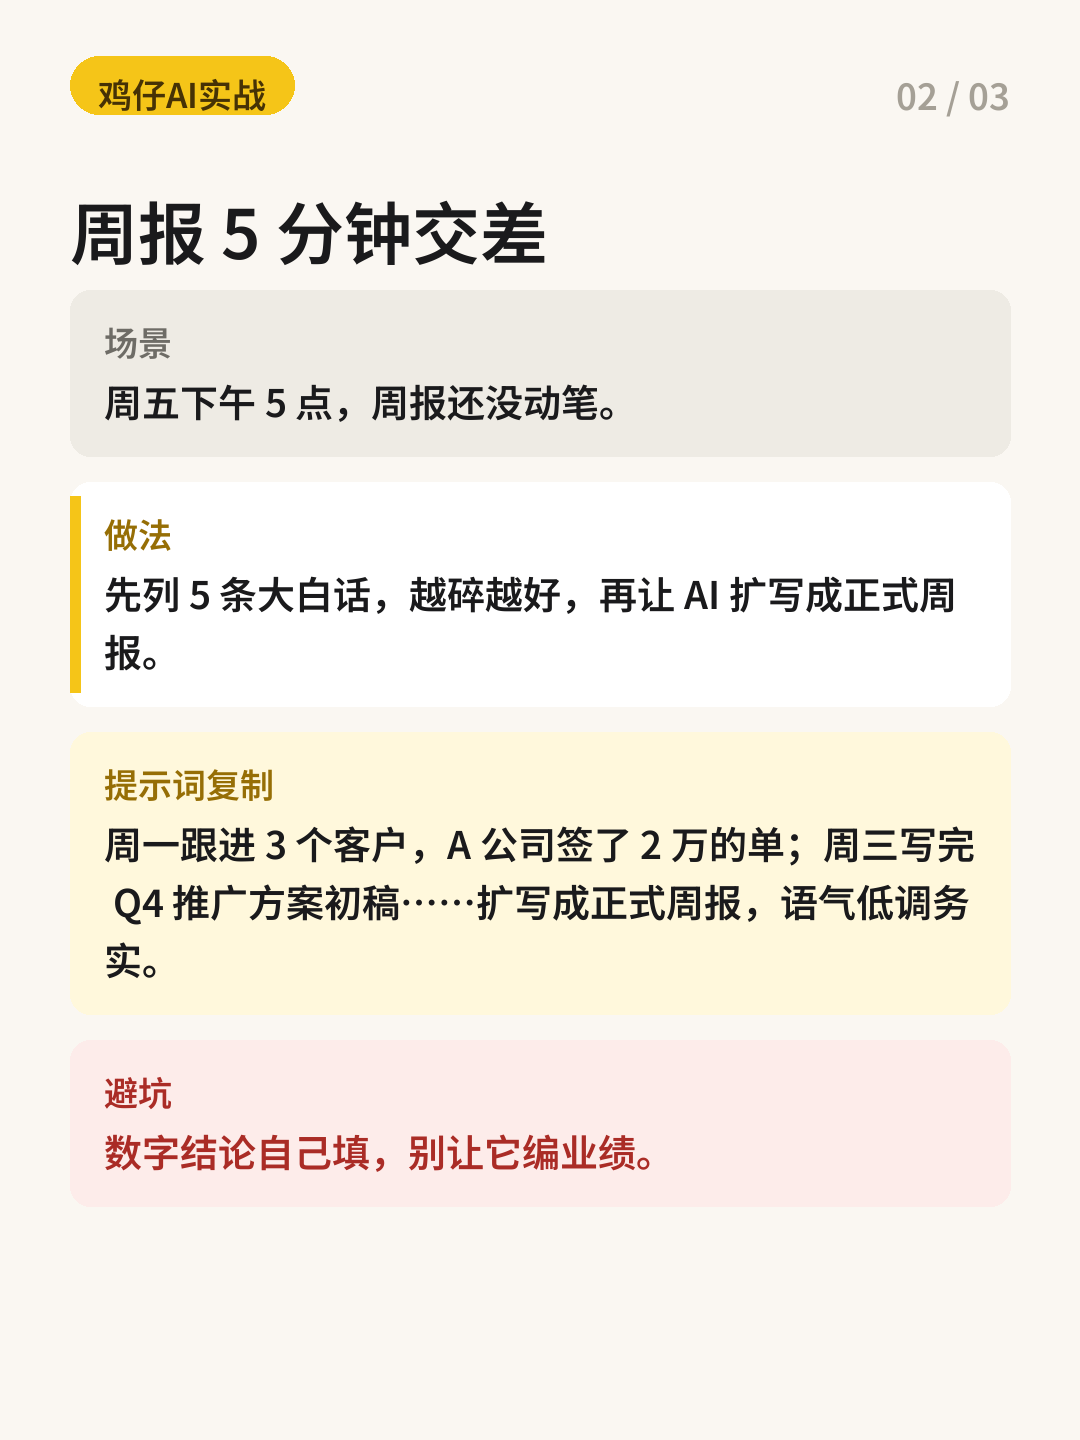
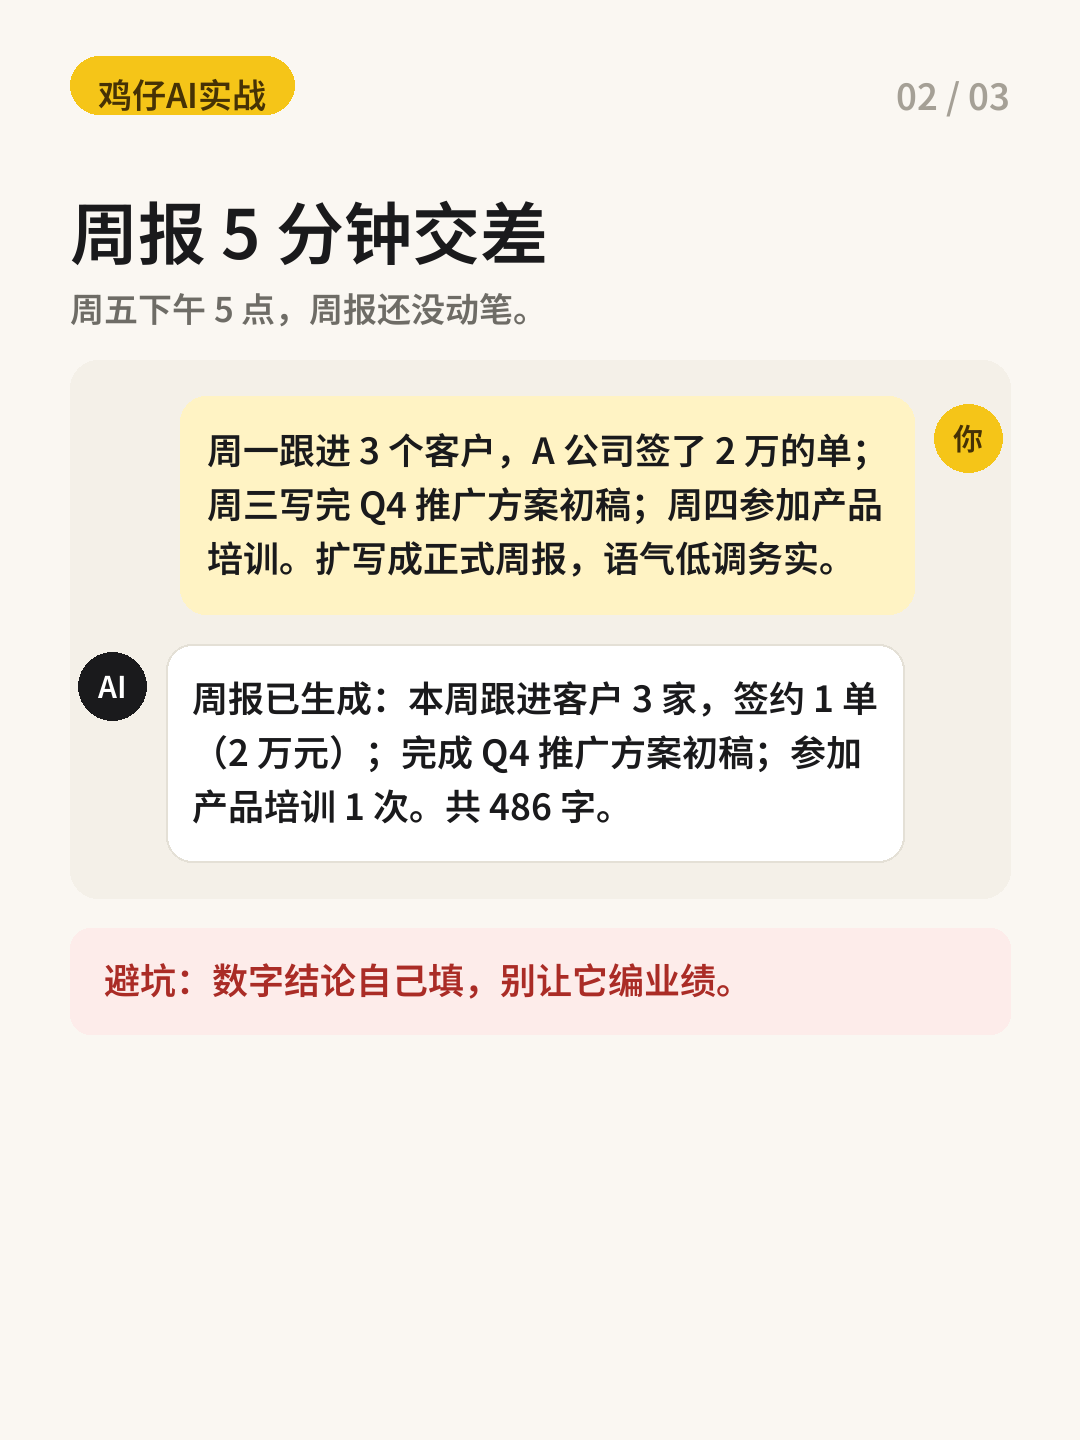
教程卡片 v2：对话实录风（你发什么/AI回什么）

Changed region(s): [[0.0611, 0.1875, 0.9472, 0.7188], [0.0917, 0.75, 0.6111, 0.8125]]

diff --git a/scripts/generate_xhs_tutorial_cards.py b/scripts/generate_xhs_tutorial_cards.py
@@ -1,8 +1,9 @@
 #!/usr/bin/env python3
-"""小红书教程类卡片生成器：浅色实战风，与深色 AI 早报模板彻底区分。
+"""小红书教程类卡片生成器 v2：对话实录风。
 
-设计语言：暖纸白底 + 黑色大标题 + 黄色品牌点缀。
-结构：场景(灰盒) → 做法(白卡) → 提示词(可复制黄条) → 避坑(浅红盒)。
+设计语言：暖纸白底 + 聊天界面 mockup。
+每张卡讲一个 mini 故事：你发出什么 → AI 回复什么 → 避坑一句。
+与深色 AI 早报模板彻底区分。
 """
 import sys
 import os
@@ -18,15 +19,13 @@ DIM = (165, 160, 150)
 YELLOW = (245, 197, 24)
 YELLOW_D = (150, 110, 5)
 WHITE = (255, 255, 255)
-SCENE_BG = (238, 235, 228)
+BROWN = (70, 50, 5)
+USER_BUBBLE = (255, 243, 196)
+AI_BUBBLE = (255, 255, 255)
+AI_BORDER = (228, 224, 214)
 WARN_BG = (253, 236, 234)
 WARN_INK = (170, 44, 38)
-PROMPT_BG = (255, 248, 220)
-BROWN = (70, 50, 5)
-
-
-def _bg():
-    return Image.new('RGB', (W, H), BG), None
+PANEL = (244, 240, 232)
 
 
 def _new():
@@ -49,24 +48,37 @@ def _header(d, idx, total):
     d.text((W - 70 - tw, 68), t, font=f, fill=DIM)
 
 
-def _footer(d):
-    pass  # 2026-10-03 用户要求去掉底部品牌行，顶部徽章已足够
+def _avatar(d, cx, cy, r, text, fill, ink):
+    d.ellipse([cx - r, cy - r, cx + r, cy + r], fill=fill)
+    f = _font(30)
+    tw = d.textlength(text, font=f)
+    d.text((cx - tw / 2, cy - 23), text, font=f, fill=ink)
 
 
-def _box(d, y, label, text, bg, ink, label_color, left_bar=None):
-    """圆角内容盒，返回底部 y。"""
-    f_lab, f_txt = _font(34), _font(38)
-    lines = _wrap(d, _clean(text), f_txt, W - 140 - 64)
-    box_h = 30 + 52 + len(lines) * 58 + 26
-    d.rounded_rectangle([70, y, W - 70, y + box_h], radius=20, fill=bg)
-    if left_bar:
-        d.rectangle([70, y + 14, 80, y + box_h - 14], fill=left_bar)
-    d.text((104, y + 26), label, font=f_lab, fill=label_color)
-    ty = y + 26 + 56
+def _measure(d, max_w, text):
+    """纯测量，不绘制。返回 (气泡宽, 气泡高, 行列表)。"""
+    f = _font(36)
+    lines = _wrap(d, _clean(text), f, max_w - 52)
+    lw = max(d.textlength(ln, font=f) for ln in lines) if lines else 0
+    bw = min(max_w, lw + 52)
+    bh = 30 + len(lines) * 54 + 26
+    return bw, bh, lines
+
+
+def _bubble(d, x, y, max_w, text, fill, ink, border=None):
+    """画一个聊天气泡，返回实际高度。"""
+    f = _font(36)
+    bw, bh, lines = _measure(d, max_w, text)
+    if border:
+        d.rounded_rectangle([x, y, x + bw, y + bh], radius=26,
+                            fill=fill, outline=border, width=2)
+    else:
+        d.rounded_rectangle([x, y, x + bw, y + bh], radius=26, fill=fill)
+    ty = y + 26
     for ln in lines:
-        d.text((104, ty), ln, font=f_txt, fill=ink)
-        ty += 58
-    return y + box_h + 26
+        d.text((x + 26, ty), ln, font=f, fill=ink)
+        ty += 54
+    return bw, bh
 
 
 def draw_cover_tutorial(kicker, title_lines, tips, path):
@@ -79,7 +91,7 @@ def draw_cover_tutorial(kicker, title_lines, tips, path):
     f_big = _font(100)
     for ln in title_lines:
         d.text((66, y), ln, font=f_big, fill=INK)
-        y += 148
+        y += 128
     y += 60
     d.rectangle([72, y, 200, y + 10], fill=YELLOW)
     y += 70
@@ -94,11 +106,11 @@ def draw_cover_tutorial(kicker, title_lines, tips, path):
             d.text((172, y), ln, font=f_t, fill=INK)
             y += 62
         y += 48
-    _footer(d)
     img.save(path)
 
 
 def draw_tip_card(tip, idx, total, path):
+    """tip: {title, scene, user, ai, warn}"""
     img, d = _new()
     _header(d, idx, total)
     y = 180
@@ -106,13 +118,43 @@ def draw_tip_card(tip, idx, total, path):
     for ln in _wrap(d, _clean(tip['title']), f_title, W - 140)[:2]:
         d.text((70, y), ln, font=f_title, fill=INK)
         y += 92
-    y += 18
-    y = _box(d, y, '场景', tip['scene'], SCENE_BG, INK, GRAY)
-    y = _box(d, y, '做法', tip['how'], WHITE, INK, YELLOW_D, left_bar=YELLOW)
-    if tip.get('prompt'):
-        y = _box(d, y, '提示词复制', tip['prompt'], PROMPT_BG, INK, YELLOW_D)
-    y = _box(d, y, '避坑', tip['warn'], WARN_BG, WARN_INK, WARN_INK)
-    _footer(d)
+    y += 10
+    # 场景（小灰字）
+    f_scene = _font(34)
+    for ln in _wrap(d, _clean(tip['scene']), f_scene, W - 140)[:2]:
+        d.text((70, y), ln, font=f_scene, fill=GRAY)
+        y += 52
+    y += 26
+    # 聊天面板：先预量高度，画面板，再画内容
+    px0, px1 = 70, W - 70
+    max_w = px1 - px0 - 190
+    panel_top = y
+    # 预量两行高度
+    _, uh, _ = _measure(d, max_w, tip['user'])
+    _, ah, _ = _measure(d, max_w, tip['ai'])
+    panel_h = 36 + uh + 30 + ah + 36
+    d.rounded_rectangle([px0, panel_top, px1, panel_top + panel_h],
+                        radius=28, fill=PANEL)
+    y = panel_top + 36
+    bw, _, _ = _measure(d, max_w, tip['user'])
+    bx = px1 - bw - 96
+    _bubble(d, bx, y, max_w, tip['user'], USER_BUBBLE, INK)
+    _avatar(d, px1 - 42, y + 42, 34, '你', YELLOW, BROWN)
+    y += uh + 30
+    _avatar(d, px0 + 42, y + 42, 34, 'AI', INK, WHITE)
+    _bubble(d, px0 + 96, y, max_w, tip['ai'], AI_BUBBLE, INK, border=AI_BORDER)
+    y = panel_top + panel_h + 30
+    # 避坑条
+    f_w = _font(36)
+    wt = '避坑：' + tip['warn']
+    wl = _wrap(d, _clean(wt), f_w, W - 140 - 52)
+    wh = 28 + len(wl) * 54 + 24
+    d.rounded_rectangle([70, y, W - 70, y + wh], radius=20, fill=WARN_BG)
+    ty = y + 24
+    for i, ln in enumerate(wl):
+        d.text((104, ty), ln, font=f_w,
+               fill=WARN_INK if i == 0 else INK)
+        ty += 54
     img.save(path)
 
 
@@ -138,36 +180,35 @@ def draw_end_tutorial(jinju, question, path):
     d.rounded_rectangle([(W - tw) / 2 - 30, y, (W + tw) / 2 + 30, y + 84],
                         radius=42, fill=YELLOW)
     d.text(((W - tw) / 2, y + 20), t, font=f_fav, fill=BROWN)
-    _footer(d)
     img.save(path)
 
 
+TIPS = [
+    {"title": "把 Excel 丢给 AI 洗",
+     "scene": "电商运营，每月初导 3000 行订单明细，老板要各品类销售额+退货率汇总。",
+     "user": "这是9月订单明细，A列下单日期、B列商品类目、C列金额、D列是否退货，按类目汇总销售额和退货率，输出一张表。",
+     "ai": "搞定！3 个类目已汇总：数码 ¥68,200｜服装 ¥41,300（退货率 8.2% 最高）｜家居 ¥18,900。需要导出 Excel 吗？",
+     "warn": "关键数字自己抽查两行，公式它偶尔手滑。"},
+    {"title": "周报 5 分钟交差",
+     "scene": "周五下午 5 点，周报还没动笔。",
+     "user": "周一跟进 3 个客户，A 公司签了 2 万的单；周三写完 Q4 推广方案初稿；周四参加产品培训。扩写成正式周报，语气低调务实。",
+     "ai": "周报已生成：本周跟进客户 3 家，签约 1 单（2 万元）；完成 Q4 推广方案初稿；参加产品培训 1 次。共 486 字。",
+     "warn": "数字结论自己填，别让它编业绩。"},
+    {"title": "汇报 PPT 10 分钟出大纲",
+     "scene": "下周给总监汇报 Q4 推广方案，只有 15 分钟。",
+     "user": "听众是总监，关心投入产出；讲 15 分钟；想让他记住：Q4 主攻短视频，预算 20 万，目标 200 万 GMV。",
+     "ai": "大纲已生成：1. 现状：短视频 ROI 是图文 3 倍 2. 打法：Q4 主攻短视频 3. 预算 20 万 4. 目标 200 万 GMV。要展开第 2 部分吗？",
+     "warn": "大纲是骨架，血肉必须是你的真实业务。"},
+]
+
+
 if __name__ == '__main__':
-    import json
     d = 'data/xhs-drafts/2026-10-04'
-    draft = json.load(open(f'{d}/draft.json', encoding='utf-8'))
-    tips = [
-        {"title": "把 Excel 丢给 AI 洗",
-         "scene": "电商运营，每月初从后台导 3000 行订单明细，老板要各品类销售额+退货率汇总表。以前拉透视表，1 小时起步。",
-         "how": "把数据复制进对话框，第一句说清列含义和想要的输出。现在 30 秒出表。",
-         "prompt": "这是9月订单明细，A列下单日期、B列商品类目、C列金额、D列是否退货，按类目汇总销售额和退货率，输出一张表。",
-         "warn": "关键数字自己抽查两行，公式它偶尔手滑。"},
-        {"title": "周报 5 分钟交差",
-         "scene": "周五下午 5 点，周报还没动笔。",
-         "how": "先列 5 条大白话，越碎越好，再让 AI 扩写成正式周报。",
-         "prompt": "周一跟进 3 个客户，A 公司签了 2 万的单；周三写完 Q4 推广方案初稿……扩写成正式周报，语气低调务实。",
-         "warn": "数字结论自己填，别让它编业绩。"},
-        {"title": "汇报 PPT 10 分钟出大纲",
-         "scene": "下周给总监汇报 Q4 推广方案，只有 15 分钟。",
-         "how": "告诉 AI 听众是谁、讲多久、想让对方记住哪句话，拿它给的大纲再填自己的案例。",
-         "prompt": "听众是总监，关心投入产出；讲 15 分钟；想让他记住：Q4 主攻短视频，预算 20 万，目标 200 万 GMV。",
-         "warn": "大纲是骨架，血肉必须是你的真实业务，套模板一问就穿帮。"},
-    ]
     draw_cover_tutorial('打工人必看', ['3个AI技巧', '报表1小时变10分钟'],
-                        [t['title'] for t in tips], f'{d}/cover.png')
-    for i, t in enumerate(tips):
-        draw_tip_card(t, i, len(tips), f'{d}/card_{i + 1:02d}.png')
+                        [t['title'] for t in TIPS], f'{d}/cover.png')
+    for i, t in enumerate(TIPS):
+        draw_tip_card(t, i, len(TIPS), f'{d}/card_{i + 1:02d}.png')
     draw_end_tutorial('AI 搭架子，你填里子，这个分工最稳。',
                       '这 3 招里，你最想先试哪一个？评论区扣 1，提示词原文发你。',
                       f'{d}/end.png')
-    print('实战风卡片已生成')
+    print('对话实录风卡片已生成')
